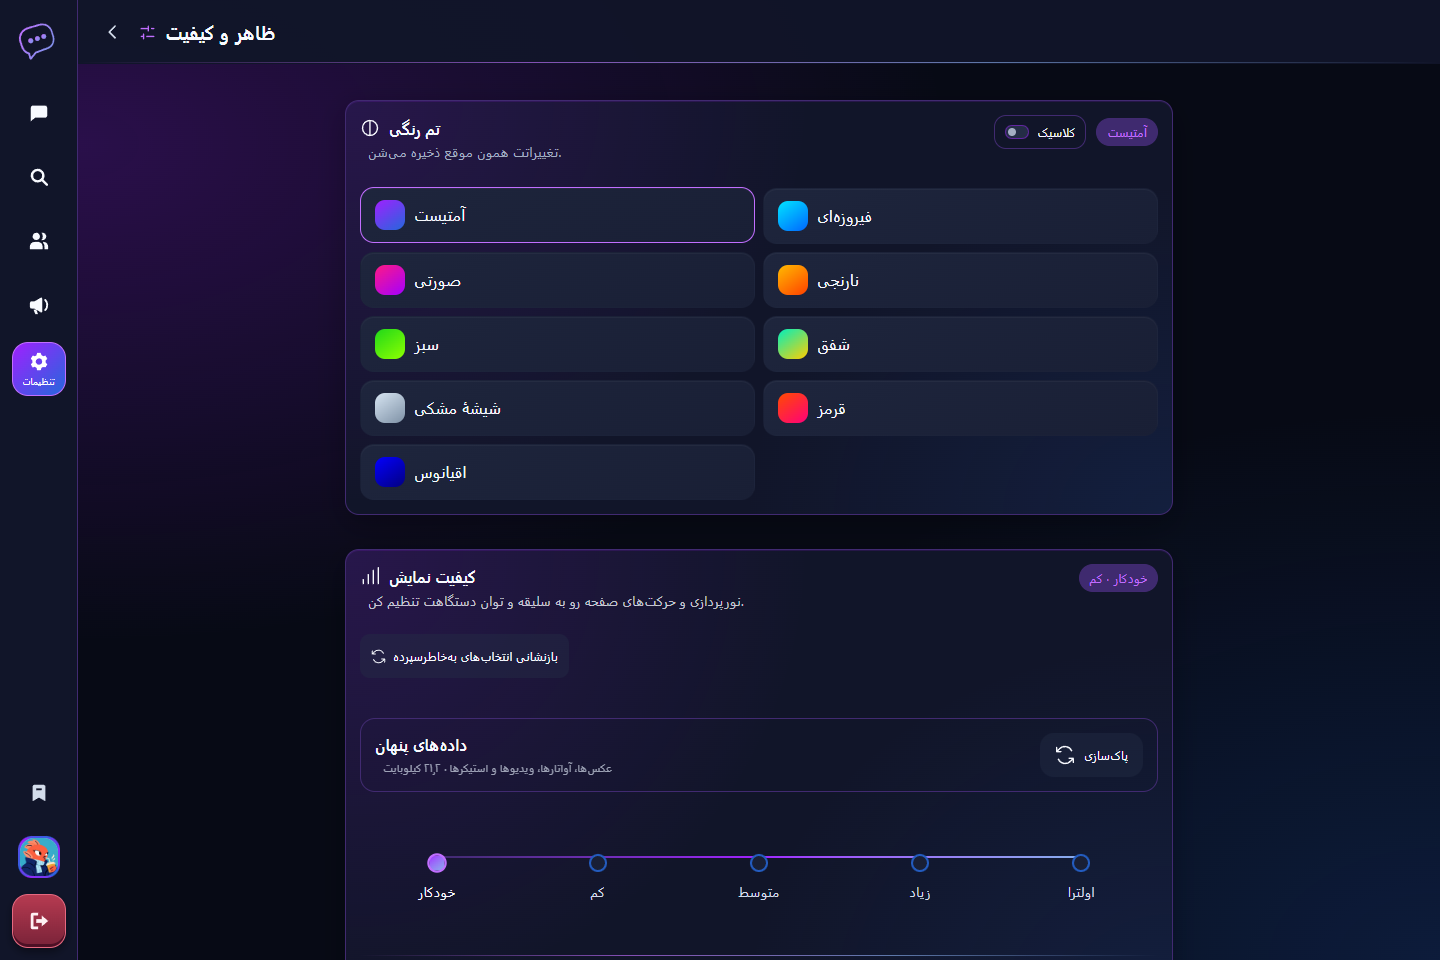
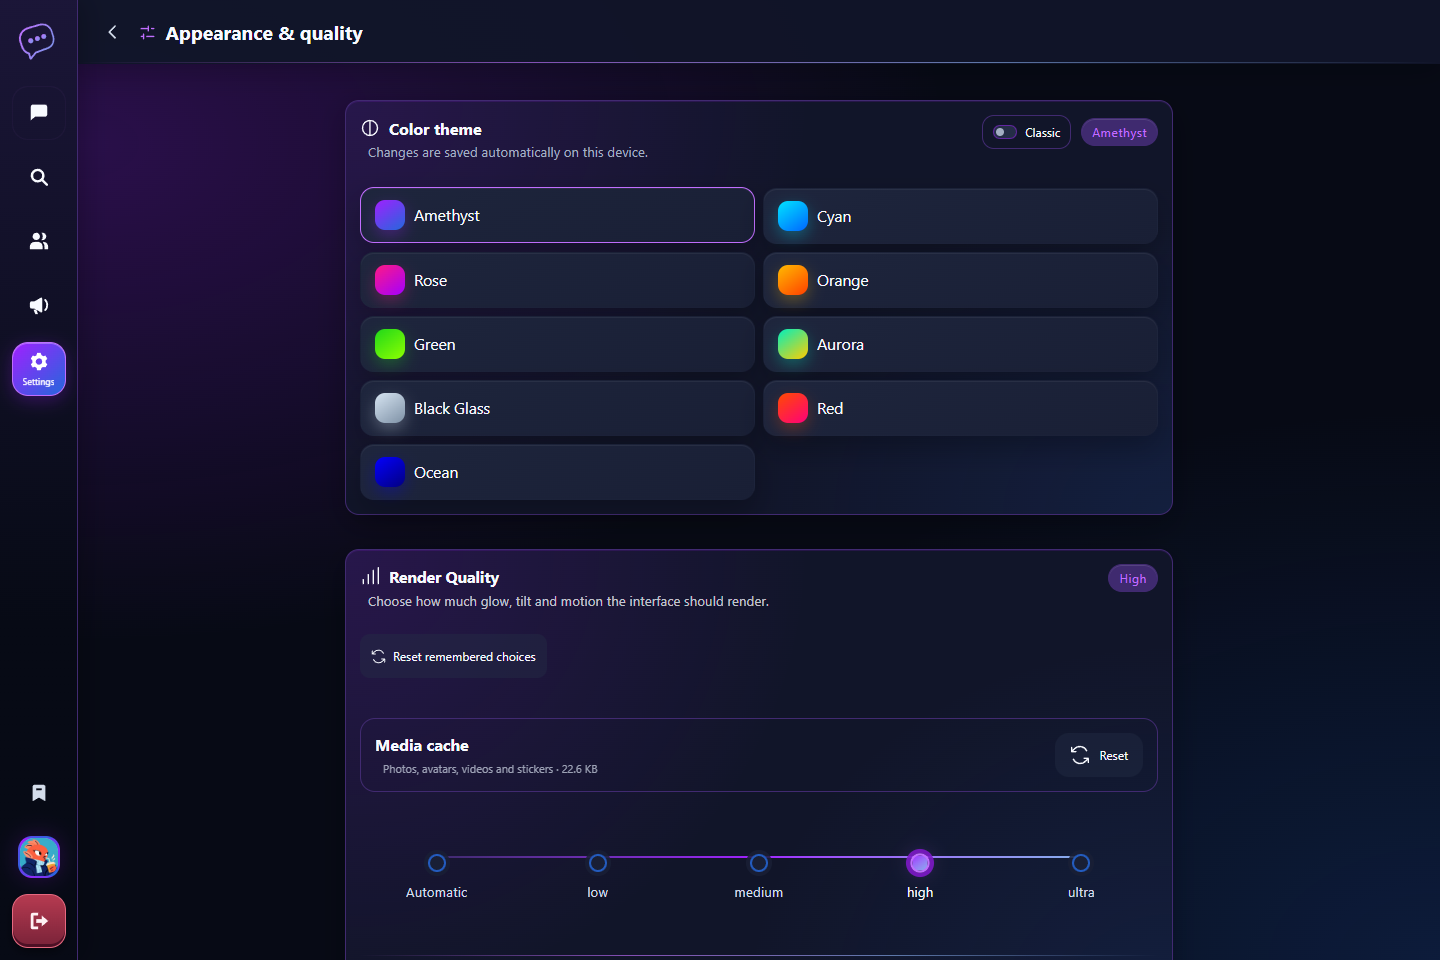
Refresh gallery with English conversations and High graphics

diff --git a/assets/README.md b/assets/README.md
@@ -1,2 +1,5 @@
 # ChatBox gallery
-Presentation artwork uses empty text areas. Original interface captures use isolated demonstration conversations, without customer data.
+
+ChatBox for Windows, Android and the web. Created by **hooman009**.
+
+[ChatBox](https://chatbox.hooman009.ir) · [hooman009](https://hooman009.ir)
